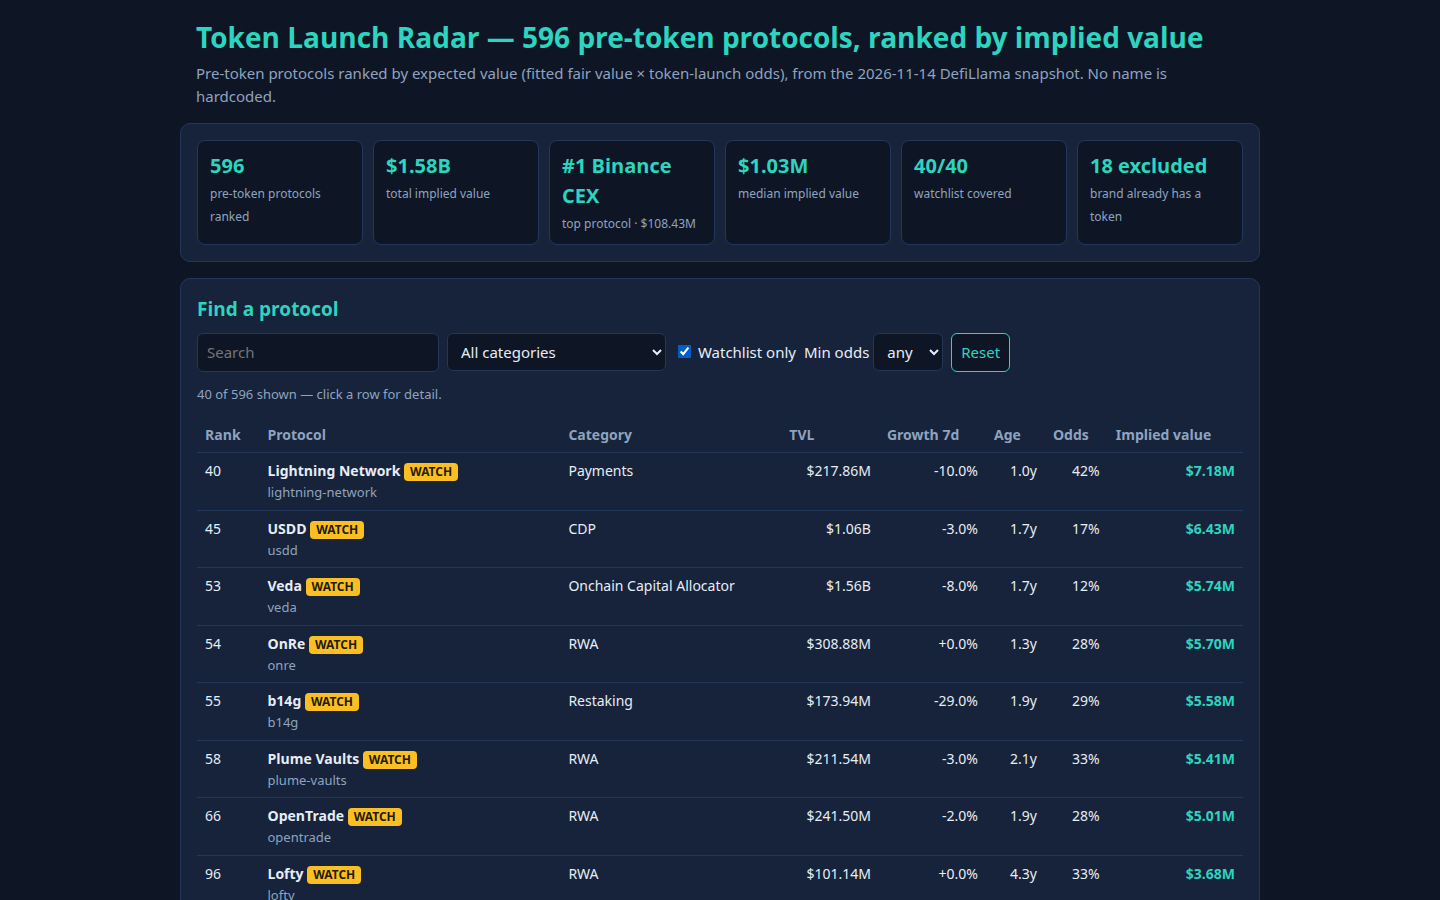
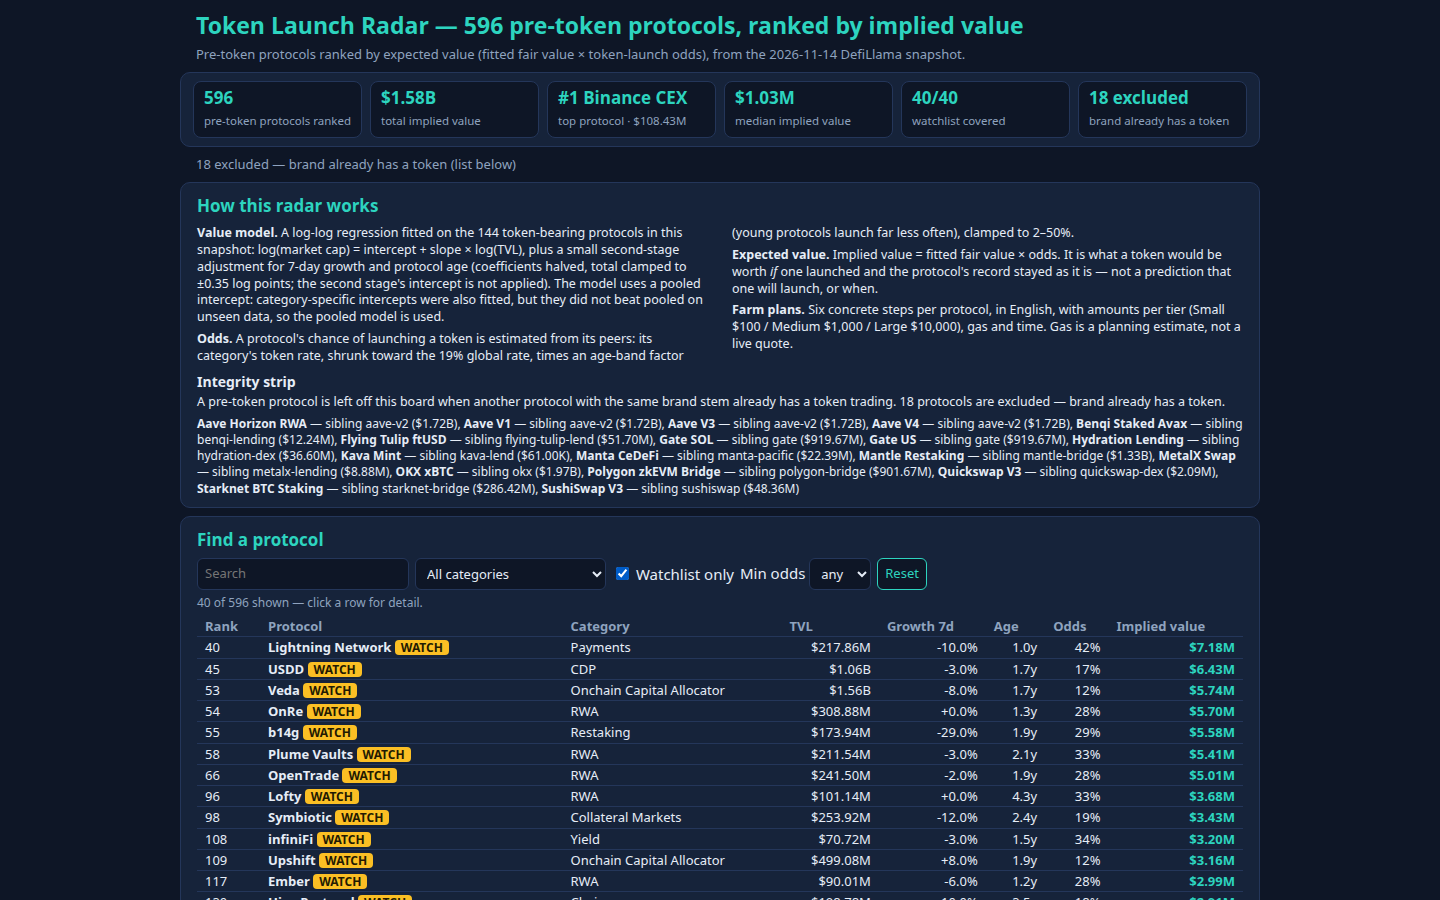
token-radar-01 v6: restore v2 presentation density (12-row board, full decomposition, model rationale, 18-item integrity list); model output byte-identical to v5

diff --git a/dashboard/app.js b/dashboard/app.js
@@ -97,9 +97,11 @@
   }).join("");
   document.getElementById("exclN").textContent =
     META.excludedN + " protocols are excluded — brand already has a token.";
+  document.getElementById("exclLine").textContent =
+    META.excludedN + " excluded — brand already has a token (list below)";
   document.getElementById("excluded").innerHTML = excl.map(function (e) {
-    return "<li><b>" + esc(e.name) + "</b> (" + esc(e.slug) + ") — sibling " + esc(e.sib) +
-      " (mcap " + fmtUsd(e.sibMcap) + ")</li>";
+    return "<li><b>" + esc(e.name) + "</b> — sibling " + esc(e.sib) +
+      " (" + fmtUsd(e.sibMcap) + ")</li>";
   }).join("");
 
   // ---- Board table: filter + sort ----
@@ -135,7 +137,7 @@
       list.length + " of " + rows.length + " shown — click a row for detail.";
     tbody.innerHTML = list.map(function (r) {
       return "<tr data-slug=\"" + esc(r.slug) + "\"><td>" + r.rank + "</td><td><b>" + esc(r.name) + "</b>" +
-        (watch.has(r.slug) ? ' <span class="badge">WATCH</span>' : "") + "<br><span class=\"muted\">" + esc(r.slug) + "</span></td>" +
+        (watch.has(r.slug) ? ' <span class="badge">WATCH</span>' : "") + "</td>" +
         "<td>" + esc(r.cat) + "</td><td class=\"num\">" + fmtUsd(r.tvl) + "</td>" +
         "<td class=\"num\">" + (r.growth >= 0 ? "+" : "") + (r.growth * 100).toFixed(1) + "%</td>" +
         "<td class=\"num\">" + ageStr(r.age) + "</td><td class=\"num\">" + Math.round(r.odds * 100) + "%</td>" +
@@ -163,10 +165,31 @@
   });
 
   // ---- Detail view ----
+  // Stage-1 multiple from the fitted model (META): exp(intercept + slope *
+  // ln(TVL)) / TVL. Stage-2 growth/maturity factors split the clamped
+  // second-stage adjustment proportionally, so growth x maturity =
+  // exp(stage-2 adjustment). Fair value is anchored on the board's own
+  // numbers (implied / odds), so the detail always agrees with the board.
+  function stage1Mult(r) {
+    var m = META.model;
+    return Math.exp(m.intercept + m.slope * Math.log(r.tvl)) / r.tvl;
+  }
+  function stage2Factors(r) {
+    var s2 = META.model.stage2;
+    var raw = 0.5 * s2.growth * r.growth + 0.5 * s2.logAge * Math.log(Math.max(1, r.age));
+    var adj = Math.max(-0.35, Math.min(0.35, raw));
+    var s = raw === 0 ? 1 : adj / raw;
+    return {
+      g: Math.exp(0.5 * s2.growth * r.growth * s),
+      m: Math.exp(0.5 * s2.logAge * Math.log(Math.max(1, r.age)) * s)
+    };
+  }
   function showDetail(slug) {
     var r = rows.filter(function (x) { return x.slug === slug; })[0];
     if (!r) return;
     var fair = Math.round(r.imp / r.odds);
+    var mult = stage1Mult(r);
+    var f = stage2Factors(r);
     var steps = farmSteps(r);
     var d = document.getElementById("detail");
     d.hidden = false;
@@ -174,14 +197,16 @@
       "<p class=\"muted\">" + esc(r.slug) + " · " + esc(r.cat) + " · main chain " + esc(r.chain) + "</p>" +
       "<div class=\"kpis2\">" +
       "<div>TVL<b>" + fmtUsd(r.tvl) + "</b></div>" +
-      "<div>Multiple<b>" + r.mult.toFixed(3) + "×</b></div>" +
+      "<div>Multiple<b>" + mult.toFixed(2) + "×</b></div>" +
       "<div>Growth 7d<b>" + (r.growth >= 0 ? "+" : "") + (r.growth * 100).toFixed(1) + "%</b></div>" +
       "<div>Age<b>" + ageStr(r.age) + "</b></div>" +
       "<div>Token odds<b>" + Math.round(r.odds * 100) + "%</b></div>" +
       "<div>Fair value<b>" + fmtUsd(fair) + "</b></div>" +
       "<div>Expected value<b>" + fmtUsd(r.imp) + "</b></div></div>" +
-      "<p>Expected value = fair value &times; odds: " + fmtUsd(fair) + " &times; " + Math.round(r.odds * 100) + "% = " + fmtUsd(r.imp) + ". " +
-      "The multiple comes from the fitted model (pooled intercept; slope " + META.model.slope + ", intercept " + META.model.intercept + ").</p>" +
+      "<p>TVL " + fmtUsd(r.tvl) + " × multiple " + mult.toFixed(2) + " × growth " + f.g.toFixed(2) +
+      " × maturity " + f.m.toFixed(2) + " = fair value " + fmtUsd(fair) + "; × odds " +
+      Math.round(r.odds * 100) + "% = expected value " + fmtUsd(r.imp) + ". " +
+      "Fair value is what the token would be worth if launched at peers' multiples; odds are the chance it launches at all.</p>" +
       "<h3>Farm plan</h3><ol>" + steps.map(function (s) { return "<li>" + esc(s) + "</li>"; }).join("") + "</ol>";
     d.scrollIntoView({ behavior: "smooth", block: "start" });
   }

diff --git a/dashboard/index.html b/dashboard/index.html
@@ -9,9 +9,22 @@
 <body>
 <header>
 <h1 id="title">Token Launch Radar</h1>
-<p class="sub">Pre-token protocols ranked by expected value (fitted fair value &times; token-launch odds), from the 2026-11-14 DefiLlama snapshot. No name is hardcoded.</p>
+<p class="sub">Pre-token protocols ranked by expected value (fitted fair value &times; token-launch odds), from the 2026-11-14 DefiLlama snapshot.</p>
 </header>
 <section id="kpis" class="panel"></section>
+<p id="exclLine" class="muted">18 excluded — brand already has a token (list below)</p>
+<section class="panel" id="howto">
+<h2>How this radar works</h2>
+<div class="method-cols">
+<p><b>Value model.</b> A log-log regression fitted on the 144 token-bearing protocols in this snapshot: log(market cap) = intercept + slope &times; log(TVL), plus a small second-stage adjustment for 7-day growth and protocol age (coefficients halved, total clamped to &plusmn;0.35 log points; the second stage's intercept is not applied). The model uses a pooled intercept: category-specific intercepts were also fitted, but they did not beat pooled on unseen data, so the pooled model is used.</p>
+<p><b>Odds.</b> A protocol's chance of launching a token is estimated from its peers: its category's token rate, shrunk toward the 19% global rate, times an age-band factor (young protocols launch far less often), clamped to 2&ndash;50%.</p>
+<p><b>Expected value.</b> Implied value = fitted fair value &times; odds. It is what a token would be worth <i>if</i> one launched and the protocol's record stayed as it is — not a prediction that one will launch, or when.</p>
+<p><b>Farm plans.</b> Six concrete steps per protocol, in English, with amounts per tier (Small $100 / Medium $1,000 / Large $10,000), gas and time. Gas is a planning estimate, not a live quote.</p>
+</div>
+<h3>Integrity strip</h3>
+<p>A pre-token protocol is left off this board when another protocol with the same brand stem already has a token trading. <span id="exclN"></span></p>
+<ul id="excluded"></ul>
+</section>
 <section class="panel">
 <h2>Find a protocol</h2>
 <div class="controls">
@@ -28,16 +41,6 @@
 </table>
 </section>
 <section id="detail" class="panel" hidden></section>
-<section class="panel">
-<h2>How this radar works</h2>
-<p><b>Value model.</b> A log-log regression fitted on the 144 token-bearing protocols in this snapshot: log(market cap) = intercept + slope &times; log(TVL), then a small second-stage adjustment for 7-day growth and protocol age (both coefficients halved, total adjustment clamped to &plusmn;0.35 log points). The second stage's intercept is <i>not</i> applied — it is a mean offset of the fitting subset, not a signal. The model uses a pooled intercept: category-specific intercepts were also fitted, but rejected — they won held-out data by only ~3% (mean median |log error| 1.080 vs 1.114) and lost walk-forward (1.258 vs 1.214), so the pooled model is used. The resulting values are the radar's own claim, not a prediction that a token will launch.</p>
-<p><b>Odds.</b> A protocol's chance of launching a token is estimated from its peers: its category's token rate, shrunk toward the 19% global rate, times an age-band factor (young protocols launch far less often), clamped to 2&ndash;50%.</p>
-<p><b>Expected value.</b> Implied value = fitted fair value &times; odds. It is the radar's own claim about what a token would be worth <i>if</i> one launched and the protocol's record stayed as it is — not a prediction that one will launch, or when.</p>
-<p><b>Farm plans.</b> Six concrete steps per protocol, in English, with amounts per tier (Small $100 / Medium $1,000 / Large $10,000), gas and time. Gas is a planning estimate, not a live quote.</p>
-<h3>Integrity strip</h3>
-<p>A pre-token protocol is left off this board when another protocol with the same brand stem already has a token trading (stem = slug minus a trailing version suffix, first segment). <span id="exclN"></span></p>
-<ul id="excluded"></ul>
-</section>
 <section class="panel">
 <h2>Model</h2>
 <div id="modelParams"></div>

diff --git a/dashboard/styles.css b/dashboard/styles.css
@@ -1,22 +1,29 @@
 :root{--bg:#0e1626;--panel:#16233a;--teal:#2dd4bf;--amber:#fbbf24;--text:#e6edf7;--muted:#8fa3bf;--line:#24365a}
 *{box-sizing:border-box}
 body{margin:0;background:var(--bg);color:var(--text);font:15px/1.5 system-ui,-apple-system,Segoe UI,Roboto,sans-serif}
-header,.panel,footer{max-width:1080px;margin:16px auto;padding:0 16px}
-header h1{font-size:28px;margin:12px 0 4px;color:var(--teal)}
-.sub{color:var(--muted);margin:0 0 8px}
-.panel{background:var(--panel);border:1px solid var(--line);border-radius:10px;padding:16px}
-h2{font-size:19px;margin:0 0 10px;color:var(--teal)}
-h3{font-size:16px;margin:16px 0 6px}
+header,.panel,footer{max-width:1080px;margin:8px auto;padding:0 16px}
+header h1{font-size:23px;margin:6px 0 2px;color:var(--teal)}
+.sub{color:var(--muted);margin:0;font-size:13px}
+.panel{background:var(--panel);border:1px solid var(--line);border-radius:10px;padding:10px 16px}
+h2{font-size:17px;margin:0 0 6px;color:var(--teal)}
+h3{font-size:14px;margin:6px 0 2px}
 .muted{color:var(--muted);font-size:13px}
-#kpis{display:flex;flex-wrap:wrap;gap:10px}
-.kpi{flex:1 1 150px;background:var(--bg);border:1px solid var(--line);border-radius:8px;padding:10px 12px}
-.kpi b{display:block;font-size:20px;color:var(--teal)}
-.kpi span{font-size:12px;color:var(--muted)}
-.controls{display:flex;flex-wrap:wrap;gap:8px;align-items:center;margin-bottom:8px}
-input,select,button{background:var(--bg);color:var(--text);border:1px solid var(--line);border-radius:6px;padding:7px 9px;font:inherit}
+#kpis{display:flex;flex-wrap:wrap;gap:8px;padding:8px 12px}
+.kpi{flex:1 1 150px;background:var(--bg);border:1px solid var(--line);border-radius:8px;padding:6px 10px}
+.kpi b{display:block;font-size:17px;line-height:1.2;color:var(--teal)}
+.kpi span{font-size:11.5px;line-height:1.3;color:var(--muted)}
+#exclLine{max-width:1080px;margin:0 auto;padding:0 16px;font-size:13px}
+#howto p{font-size:12.5px;line-height:1.35;margin:0 0 5px}
+.method-cols{columns:2;column-gap:24px}
+#excluded{list-style:none;padding:0;font-size:12px;line-height:1.35;margin:4px 0 0}
+#excluded li{display:inline}
+#excluded li+li::before{content:", "}
+.controls{display:flex;flex-wrap:wrap;gap:6px;align-items:center;margin-bottom:4px}
+input,select,button{background:var(--bg);color:var(--text);border:1px solid var(--line);border-radius:6px;padding:5px 7px;font:inherit;font-size:13px}
 button{cursor:pointer;border-color:var(--teal);color:var(--teal)}
-table{width:100%;border-collapse:collapse;font-size:14px}
-th,td{padding:7px 8px;text-align:left;border-bottom:1px solid var(--line);vertical-align:top}
+#count{font-size:12px;margin:2px 0 4px}
+table{width:100%;border-collapse:collapse;font-size:13px;line-height:1.25}
+th,td{padding:2px 8px;text-align:left;border-bottom:1px solid var(--line);vertical-align:top}
 th{color:var(--muted);cursor:pointer}
 th:hover{color:var(--teal)}
 tbody tr{cursor:pointer}
@@ -24,8 +31,6 @@ tbody tr:hover{background:#1b2c4b}
 td.num,th.num{text-align:right}
 .badge{display:inline-block;background:var(--amber);color:#231a02;border-radius:4px;padding:0 6px;font-size:12px;font-weight:700}
 .teal{color:var(--teal)}
-#excluded{columns:2;column-gap:24px;font-size:13px;margin:6px 0}
-#excluded li{margin-bottom:4px;break-inside:avoid}
 #detail ol{margin:8px 0;padding-left:22px}
 #detail li{margin-bottom:8px}
 .kpis2{display:flex;flex-wrap:wrap;gap:10px;margin:10px 0}
